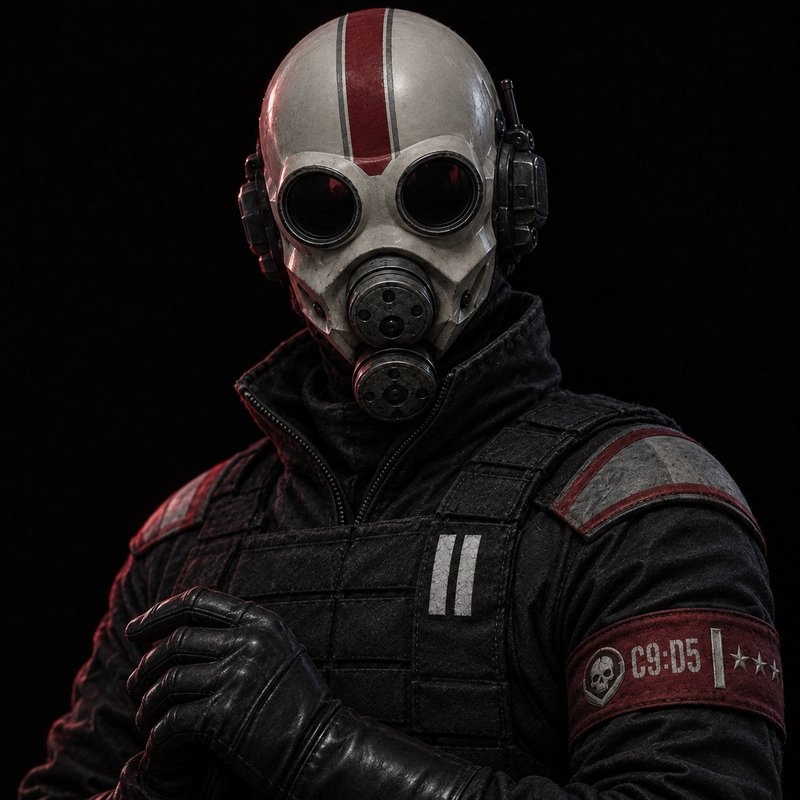
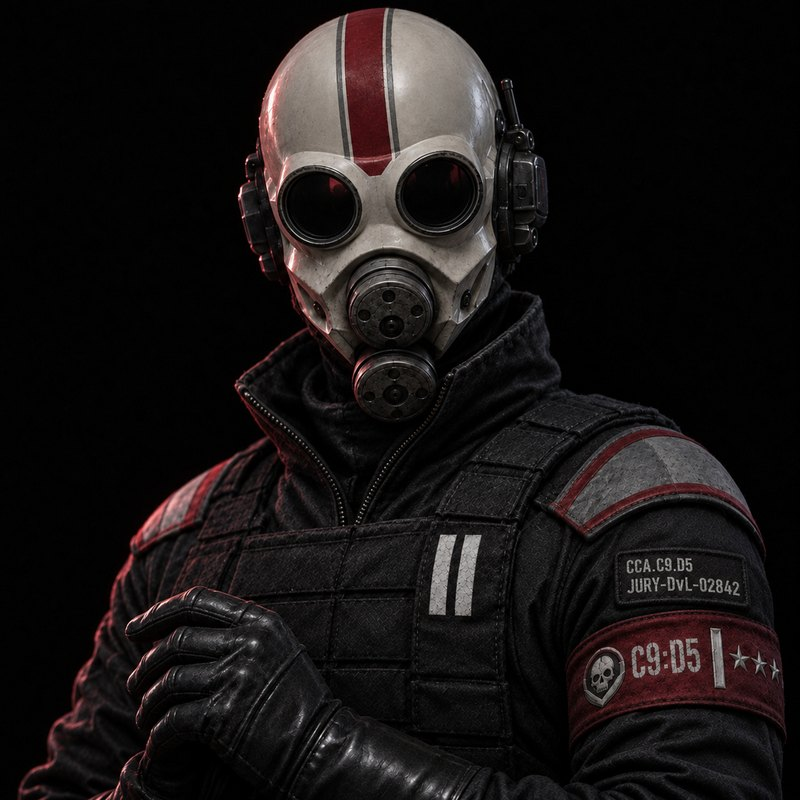
Art: new Magistrate portrait with designation patch
Claude-Session: https://claude.ai/code/session_01FPxW8sjExYByq8Hjg1f5Jc

diff --git a/docs/style-sheet.md b/docs/style-sheet.md
@@ -856,7 +856,7 @@ Exempel: `CCA.C9.D5` / `HELIX-OfC-40337`. En enhet från en annan stad: `CCA.C17
 `DESIGNATION PATCH: on the left upper arm, directly above the armband, a small sewn rectangular cloth patch in dark charcoal with a thin overlocked edge in the same colour, slightly rounded corners, about twice as wide as the armband is tall. On it, exactly two lines of condensed off-white stencil capitals, left-aligned, both lines the same letter height — each line about half the height of the "C9:D5" lettering on the armband: line one "CCA.C9.D5", line two "HELIX-OfC-40337". Nothing else on the patch.`
 Lägg till `the designation printed directly on the jacket or on one line` i DO NOT-raden.
 
-**Testad (2026-11-13):** Magistraten (JURY DvL, full prompt Rev 2) gav exakt två rader, samma teckenhöjd, rätt placering och rätt storlek i förhållande till armbandet. Regeln fungerar som den står.
+**Testad (2026-11-13):** Magistraten (JURY DvL, full prompt Rev 2) gav exakt två rader, samma teckenhöjd, rätt placering och rätt storlek i förhållande till armbandet. Regeln fungerar som den står. Porträttet ersatte `portraits/magistrate.jpg`.
 
 **Allmän regel för utrustningsrader:** varje föremål får en etikett direkt under sig, i liten benvit stencil på en gemensam baslinje. Föremålen står i en rak rad med jämna mellanrum och samma skala. Lista föremål och etikett parvis i prompten (`ITEM — "LABEL"`) och lägg till `unlabelled equipment` i DO NOT-raden. Detaljbilder får också korta etiketter. Promptrad:
 `EQUIPMENT ROW: the items stand in one straight row, evenly spaced, at the same scale, each on its own with clear space around it. Directly beneath EACH item, on the same baseline, a short label in small condensed off-white stencil capitals, spelled exactly as listed: [...]. Every item has exactly one label; no item without a label, no label without an item.`
